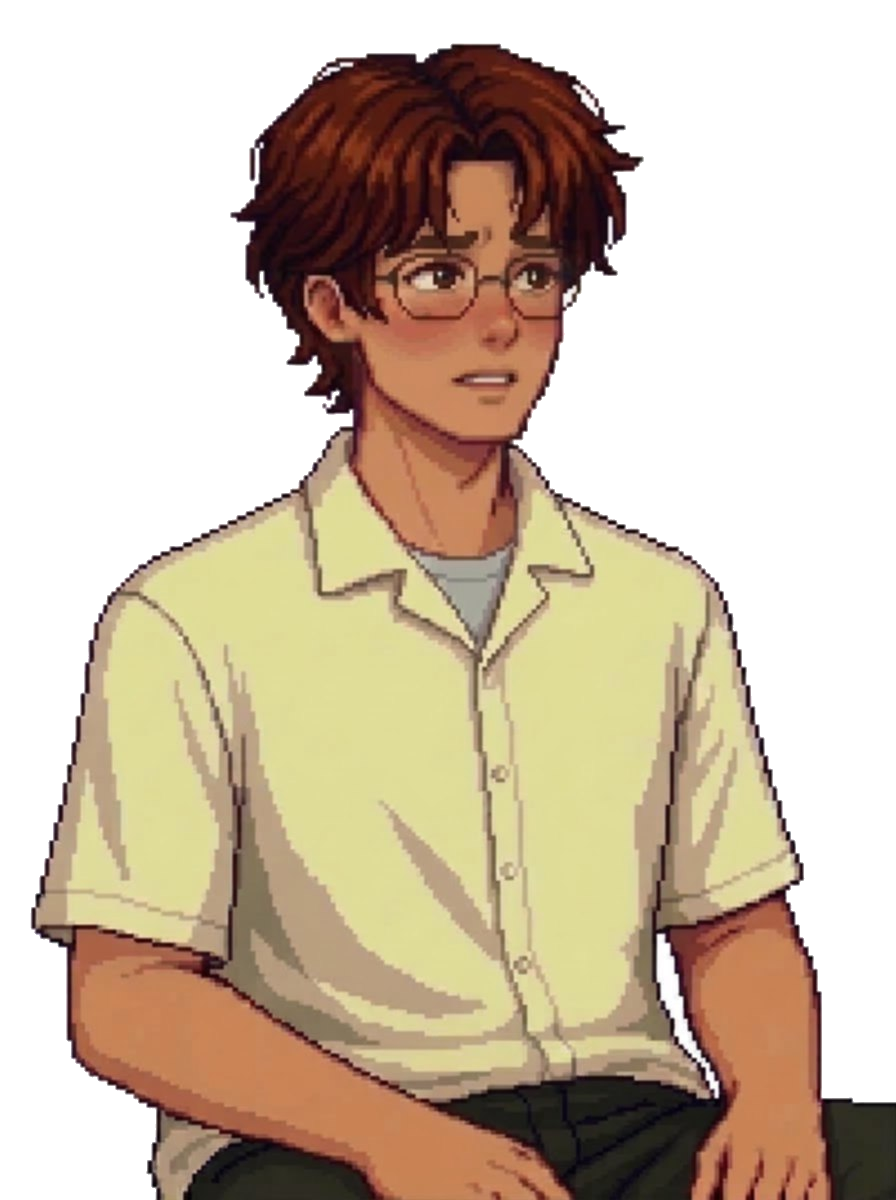
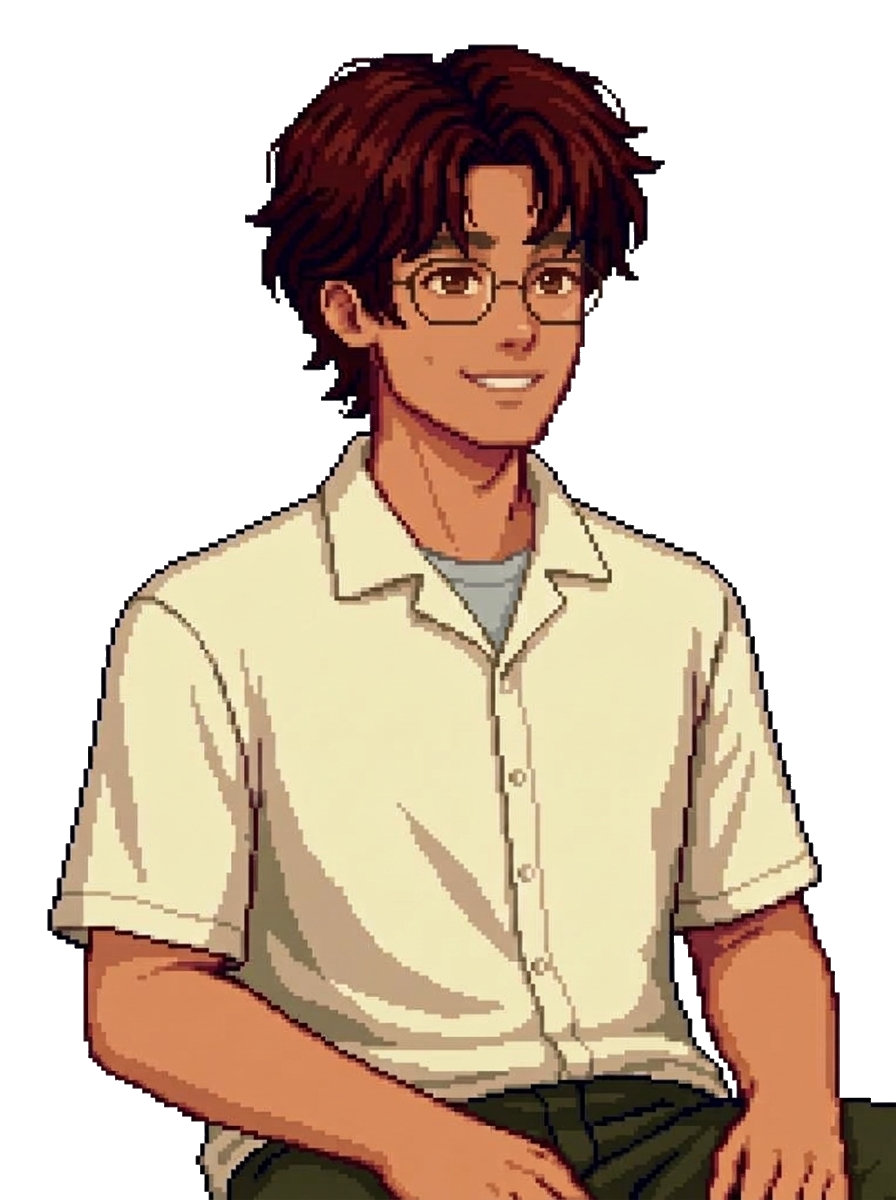
restore original male_sincere sprite and scope concerned sprite to sudden brake

diff --git a/src/test/java/com/sabaytayo/StageCueTest.java b/src/test/java/com/sabaytayo/StageCueTest.java
@@ -120,13 +120,24 @@ public class StageCueTest {
         check("Flirty speak beat stays in steady two-seat framing with smirk", speakCue.getCameraAngle() == StageCue.CameraAngle.TWO_SEAT && "smirk".equals(speakCue.getMaleMood()));
         check("Flirty warm reaction focuses on stranger with kilig fluster", reactCue.getCameraAngle() == StageCue.CameraAngle.FOCUS_RIGHT && "flustered".equals(reactCue.getFemMood()) && reactCue.getEffectType() == StageCue.EffectType.KILIG_FLUSTER);
 
-        // S02 traffic line uses neutral talking; narration beat drops back to neutral
+        // S02 traffic line uses neutral talking and sincere; narration beat drops back to neutral
         SincereChoice traffic = new SincereChoice("[Sincere] \"Ang traffic ngayon, no? Mukhang matatagalan pa tayo rito.\"",
                 "S03", "\"Oo nga eh.\" She glanced at you.", "\"Oo nga eh.\"");
+        StageCue trafficSpeakCue = StageCue.forChoiceSpeakBeat(traffic);
         StageCue trafficCue = StageCue.forChoiceReactionBeat(traffic, "\"Oo nga eh.\" She glanced at you.", warmM);
+        check("S02 traffic speak uses sincere", "sincere".equals(trafficSpeakCue.getMaleMood()));
         check("S02 traffic reply uses neutral_talking", "neutral_talking".equals(trafficCue.getFemMood()));
         check("Narration beat of traffic reply uses neutral",
                 "neutral".equals(StageCue.adjustReactionBeat(trafficCue, "Narrator", true).getFemMood()));
+
+        // S03 sudden brake check-in uses concerned MC sprite + wincing_talking FEM-C sprite
+        SincereChoice brakeCheck = new SincereChoice("[Sincere] \"Okay ka lang ba? Nasaktan ka ba? Baka nahihilo ka?\"",
+                "S04A", "\"Oo, okay lang naman.\"", "\"Oo, okay lang naman.\"");
+        StageCue brakeSpeak = StageCue.forChoiceSpeakBeat(brakeCheck);
+        StageCue brakeReact = StageCue.forChoiceReactionBeat(brakeCheck, "\"Oo, okay lang naman.\"", warmM);
+        check("S03 brake check-in speak uses concerned MC", "concerned".equals(brakeSpeak.getMaleMood()));
+        check("S03 brake check-in reply uses concerned MC and wincing_talking FEM-C",
+                "concerned".equals(brakeReact.getMaleMood()) && "wincing_talking".equals(brakeReact.getFemMood()));
 
         // After the flustered reaction, her spoken lines switch to flustered_laugh
         StageCue flusteredCue = StageCue.forChoiceReactionBeat(flirty, "She smiled softly.", warmM);

diff --git a/src/main/java/com/sabaytayo/StageCue.java b/src/main/java/com/sabaytayo/StageCue.java
@@ -407,8 +407,12 @@ public class StageCue {
                 return new StageCue(null, false, CameraAngle.TWO_SEAT,
                         "smirk", null, true, true, EffectType.NONE, false);
             case "Sincere":
+                String speakMood = (choice != null && choice.getText() != null
+                        && choice.getText().contains("Okay ka lang ba"))
+                        ? "concerned"
+                        : "sincere";
                 return new StageCue(null, false, CameraAngle.TWO_SEAT,
-                        "sincere", null, true, true, EffectType.NONE, false);
+                        speakMood, null, true, true, EffectType.NONE, false);
             case "Blunt":
                 return new StageCue(null, false, CameraAngle.TWO_SEAT,
                         "deadpan", null, true, true, EffectType.NONE, false);
@@ -445,10 +449,10 @@ public class StageCue {
                     return new StageCue(null, false, CameraAngle.TWO_SEAT,
                             "sincere", "neutral_talking", true, true, EffectType.GENTLE_NOD, false);
                 }
-                // S03 post-brake check-in: she talks while still wincing from the head bump
+                // S03 post-brake check-in: MC looks concerned while she talks still wincing from the head bump
                 if (choice != null && choice.getText() != null && choice.getText().contains("Okay ka lang ba")) {
                     return new StageCue(null, false, CameraAngle.TWO_SEAT,
-                            "sincere", "wincing_talking", true, true, EffectType.GENTLE_NOD, false);
+                            "concerned", "wincing_talking", true, true, EffectType.GENTLE_NOD, false);
                 }
                 if (isWarm) {
                     boolean igShared = lower.contains("follow mo") || lower.contains("waved warmly");

diff --git a/src/main/java/com/sabaytayo/SpriteSet.java b/src/main/java/com/sabaytayo/SpriteSet.java
@@ -16,6 +16,7 @@ public class SpriteSet {
 
         addMale("neutral", "male_neutral");
         addMale("sincere", "male_sincere");
+        addMale("concerned", "male_concerned");
         addMale("smirk", "male_smirk");
         addMale("awkward", "male_awkward");
         addMale("deadpan", "male_deadpan");
